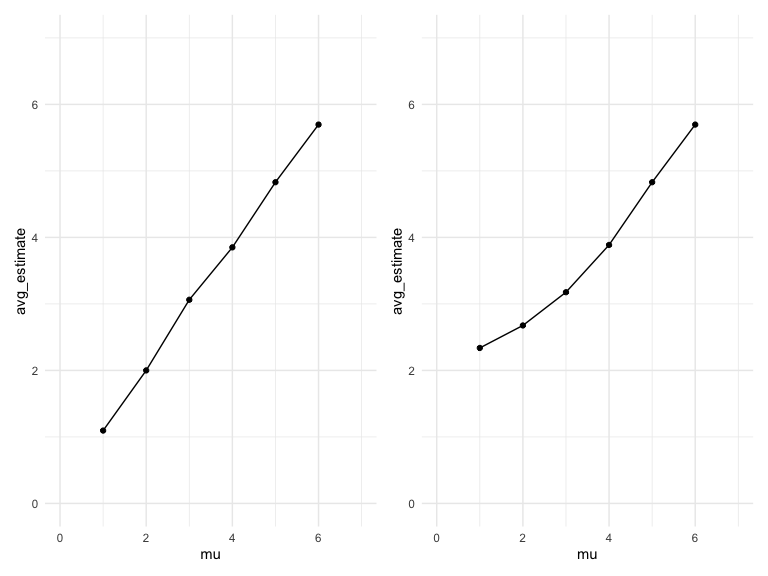
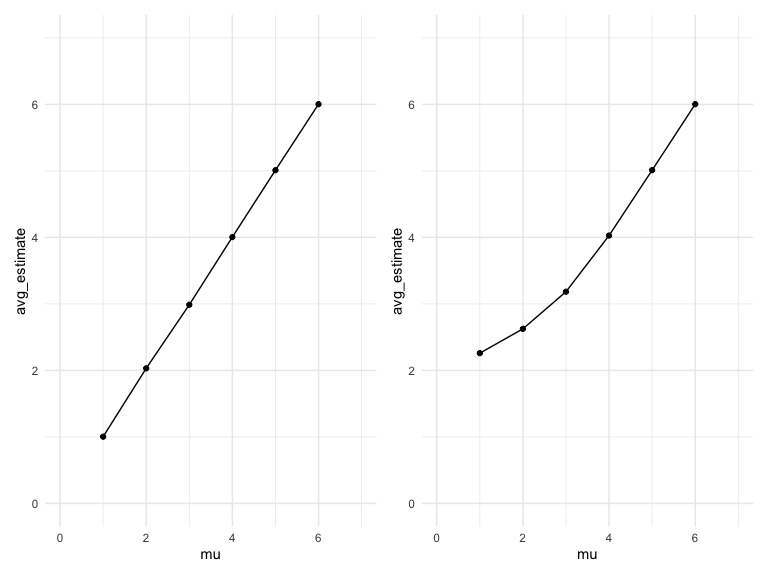
finish question 3 and debug

diff --git a/p8105_hw5_cy2751.md b/p8105_hw5_cy2751.md
@@ -18,11 +18,11 @@ randomset <-  function(n = 30,mu,sigma = 5) {
            mu = mu)
 }
 
-output = vector("list", 50)
+output = vector("list", 5000)
 output_set <- vector("list",6)
 
 for (j in 1:6) {
-  for (i in 1:50) {
+  for (i in 1:5000) {
   
   output[[i]] = randomset(mu = j)
   
